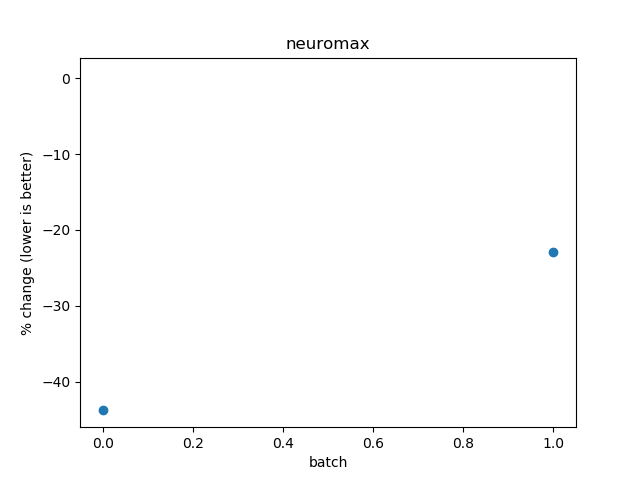
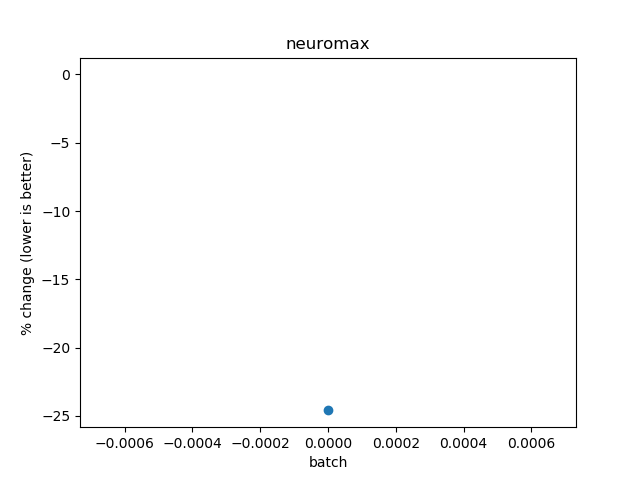
stop recomputing initial distances!

diff --git a/neuromax.py b/neuromax.py
@@ -211,7 +211,7 @@ def step_agent_on_protein(agent, p):
     p.positions += p.velocities
     return AttrDict({
         'initial_positions': p.initial_positions,
-        'initial_distances': compute_distances(p.initial_positions),
+        'initial_distances': p.initial_distances,
         'features': p.features,
         'positions': p.positions,
         'velocities': p.velocities,
